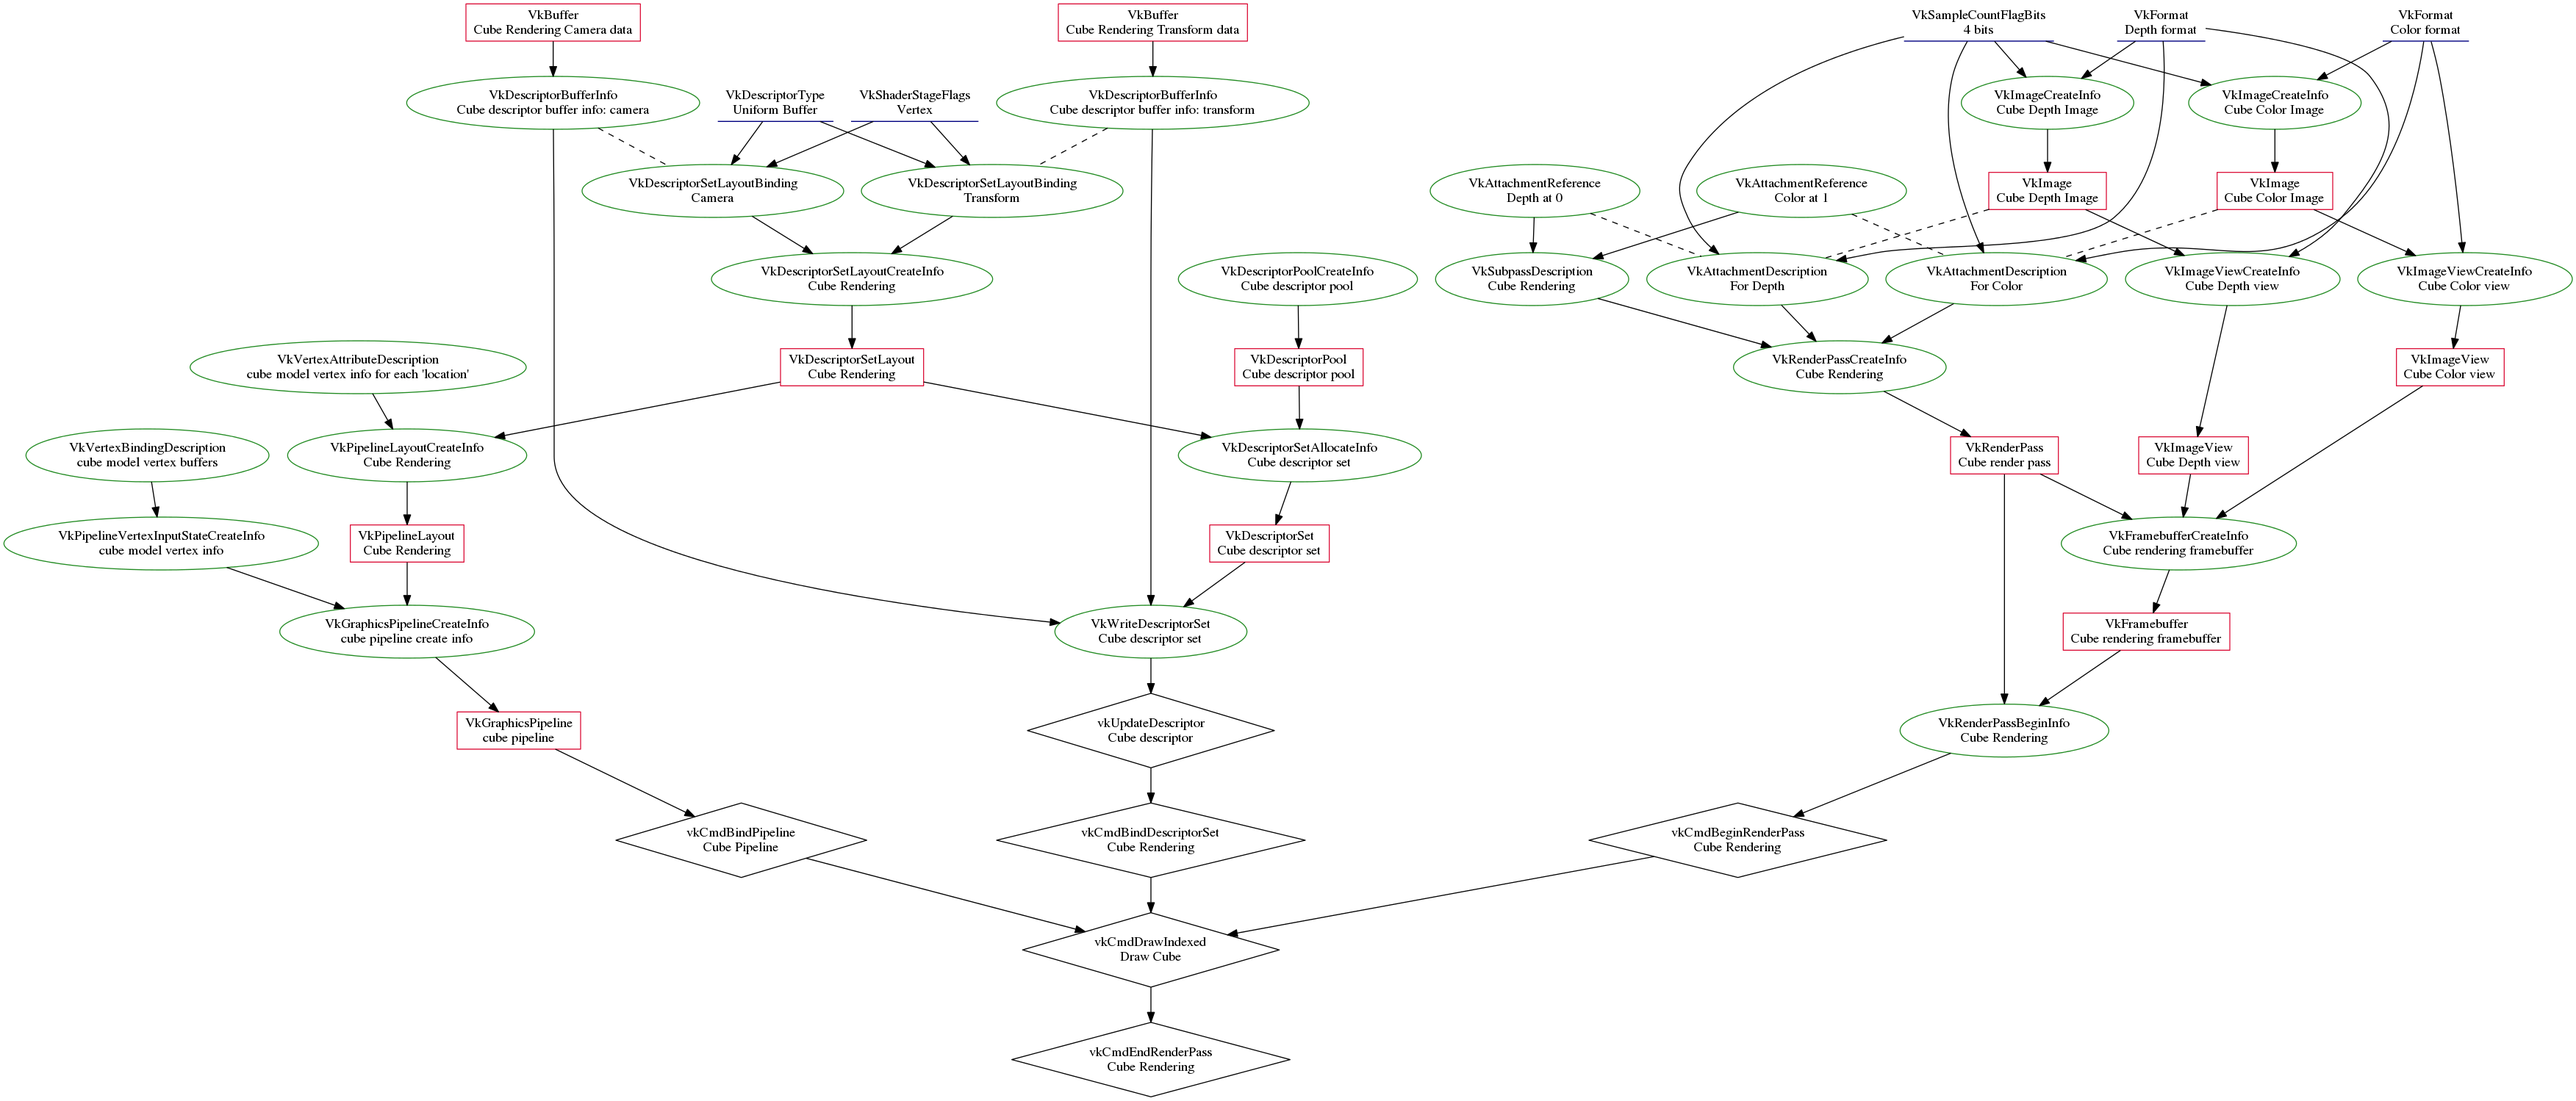
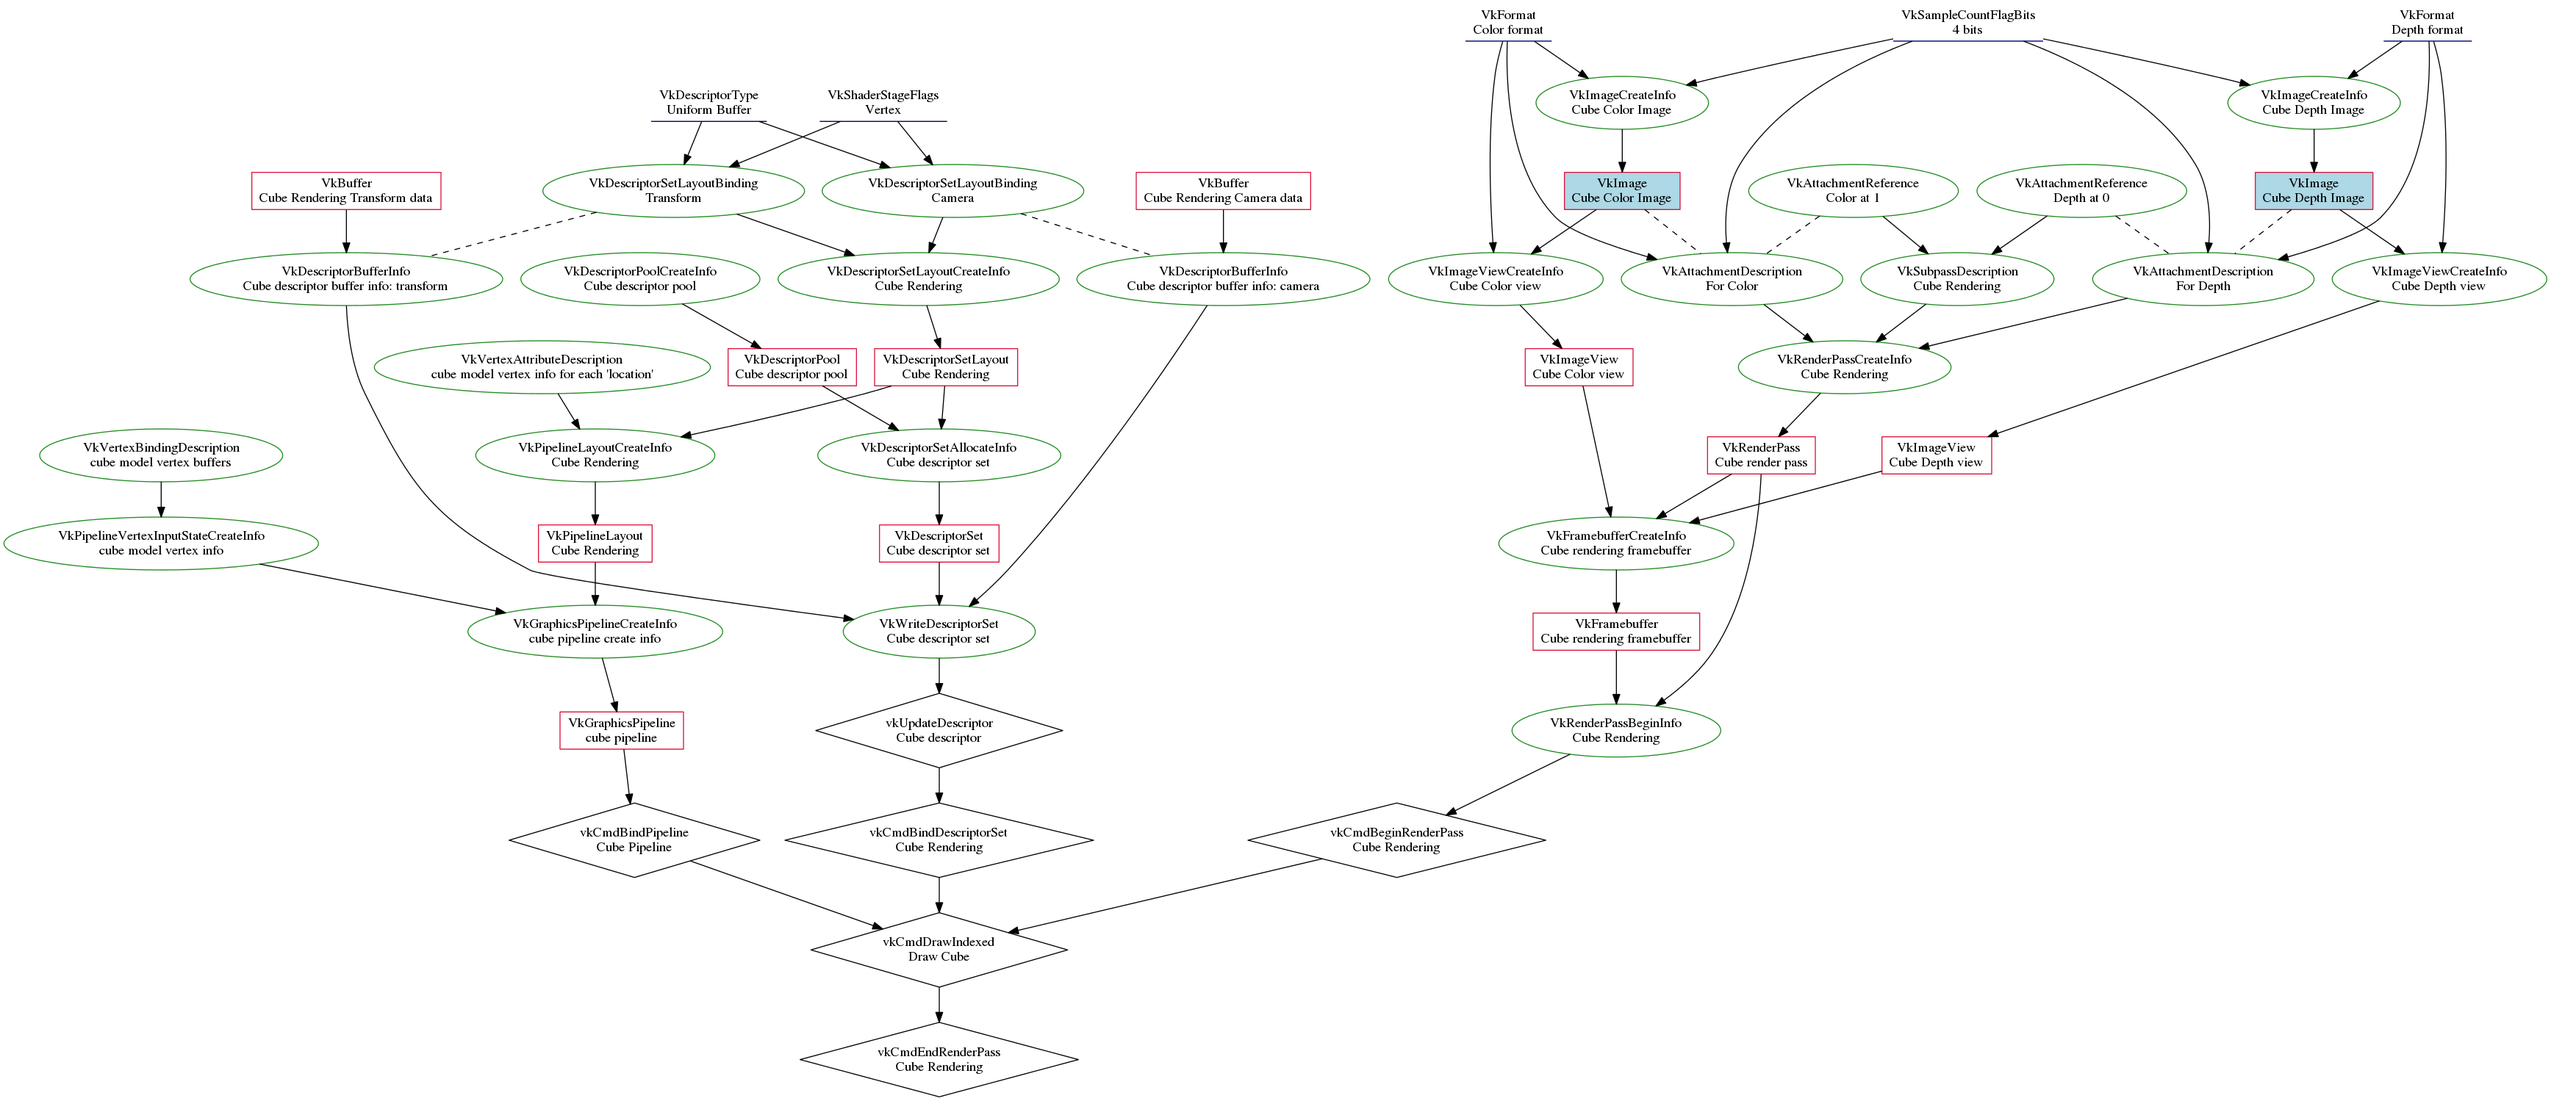
add input output style

diff --git a/render_cube.py b/render_cube.py
@@ -1,7 +1,8 @@
 import sys
 import os
 from vulkan_node import *
-from vulkan_node import Styles
+from vulkan_node import EdgeStyles
+from vulkan_node import NodeStyles
 
 output_name = "render_cube.png"
 edge_list = []
@@ -52,8 +53,8 @@ edge_list.extend([
     (cube_sample_bit, cube_color_attachment_desc),
     (cube_color_format, cube_color_attachment_desc),
     # implicit dependency between attachment reference and attachment desciption
-    (cube_color_attachment_ref, cube_color_attachment_desc, Styles.implicit_match),
-    (cube_depth_attachment_ref, cube_depth_attachment_desc, Styles.implicit_match),
+    (cube_color_attachment_ref, cube_color_attachment_desc, EdgeStyles.implicit_match),
+    (cube_depth_attachment_ref, cube_depth_attachment_desc, EdgeStyles.implicit_match),
     # Renderpass create info
     (cube_depth_attachment_desc, cube_render_pass_create_info),
     (cube_color_attachment_desc, cube_render_pass_create_info),
@@ -64,8 +65,8 @@ edge_list.extend([
 # Create framebuffer for cube rendering
 cube_depth_image_create_info = VkImageCreateInfo("Cube Depth Image")
 cube_color_image_create_info = VkImageCreateInfo("Cube Color Image")
-cube_depth_image = VkImage("Cube Depth Image")
-cube_color_image = VkImage("Cube Color Image")
+cube_depth_image = VkImage("Cube Depth Image", NodeStyles.render_output)
+cube_color_image = VkImage("Cube Color Image", NodeStyles.render_output)
 cube_depth_view_create_info = VkImageViewCreateInfo("Cube Depth view")
 cube_color_view_create_info = VkImageViewCreateInfo("Cube Color view")
 cube_depth_view = VkImageView("Cube Depth view")
@@ -93,8 +94,8 @@ edge_list.extend([
     (cube_framebuffer_create_info, cube_framebuffer),
 
     # implicit matches
-    (cube_depth_image, cube_depth_attachment_desc, Styles.implicit_match),
-    (cube_color_image, cube_color_attachment_desc, Styles.implicit_match),
+    (cube_depth_image, cube_depth_attachment_desc, EdgeStyles.implicit_match),
+    (cube_color_image, cube_color_attachment_desc, EdgeStyles.implicit_match),
 ])
 
 
@@ -145,8 +146,8 @@ edge_list.extend([
     (cube_write_descriptor, cube_update_descriptor),
 
     # implicit matches
-    (camera_descriptor_buffer_info, camera_binding, Styles.implicit_match),
-    (transform_descriptor_buffer_info, transform_binding, Styles.implicit_match),
+    (camera_binding, camera_descriptor_buffer_info, EdgeStyles.implicit_match),
+    (transform_binding, transform_descriptor_buffer_info, EdgeStyles.implicit_match),
 ])
 
 # bind resources and draw cube

diff --git a/vulkan_node.py b/vulkan_node.py
@@ -1,10 +1,22 @@
 import pygraphviz as pgv
 
 
+class EdgeStyles:
+    implicit_dep = {"style": "dashed"}
+    implicit_match = {"style": "dashed", "arrowhead": "none"}
+
+
+class NodeStyles:
+    render_input = {"style": "filled", "fillcolor": "lightsalmon"}
+    render_output = {"style": "filled", "fillcolor": "lightblue"}
+    render_inout = {"style": "filled", "fillcolor": "plum1"}
+
+
 class Node(object):
-    def __init__(self, name, desc):
+    def __init__(self, name, desc, style):
         self.name = name
         self.desc = desc
+        self.style = style
 
     def __repr__(self):
         return str(self.__class__) + self.name
@@ -20,9 +32,6 @@ class Node(object):
 
 
 class HandleNode(Node):
-    def __init__(self, name, desc):
-        super(HandleNode, self).__init__(name, desc)
-
     def color(self):
         return "crimson"
 
@@ -31,9 +40,6 @@ class HandleNode(Node):
 
 
 class StructNode(Node):
-    def __init__(self, name, desc):
-        super(StructNode, self).__init__(name, desc)
-
     def color(self):
         return "forestgreen"
 
@@ -42,9 +48,6 @@ class StructNode(Node):
 
 
 class ElementNode(Node):
-    def __init__(self, name, desc):
-        super(ElementNode, self).__init__(name, desc)
-
     def color(self):
         return "navy"
 
@@ -53,9 +56,6 @@ class ElementNode(Node):
 
 
 class CommandNode(Node):
-    def __init__(self, name, desc):
-        super(CommandNode, self).__init__(name, desc)
-
     def color(self):
         return "black"
 
@@ -66,8 +66,8 @@ class CommandNode(Node):
 def NodeFactory(name, BaseClass):
     assert isinstance(name, str)
 
-    def __init__(self, desc):
-        super(self.__class__, self).__init__(name, desc)
+    def __init__(self, desc, style={}):
+        super(self.__class__, self).__init__(name, desc, style)
 
     return type(name, (BaseClass,), {"__init__": __init__})
 
@@ -142,7 +142,7 @@ def build_graph(edge_list):
     for e in edge_list:
         for item in e:
             if isinstance(item, Node):
-                G.add_node(item, color=item.color(), shape=item.shape())
+                G.add_node(item, color=item.color(), shape=item.shape(), **item.style)
         if len(e) == 3:
             G.add_edge(e[0], e[1], **e[2])
         else:
@@ -155,8 +155,3 @@ def write_graph(graph, output):
     assert isinstance(output, str)
     graph.layout('dot')
     graph.draw(output)
-
-
-class Styles:
-    implicit_dep = {"style": "dashed"}
-    implicit_match = {"style": "dashed", "arrowhead": "none"}
